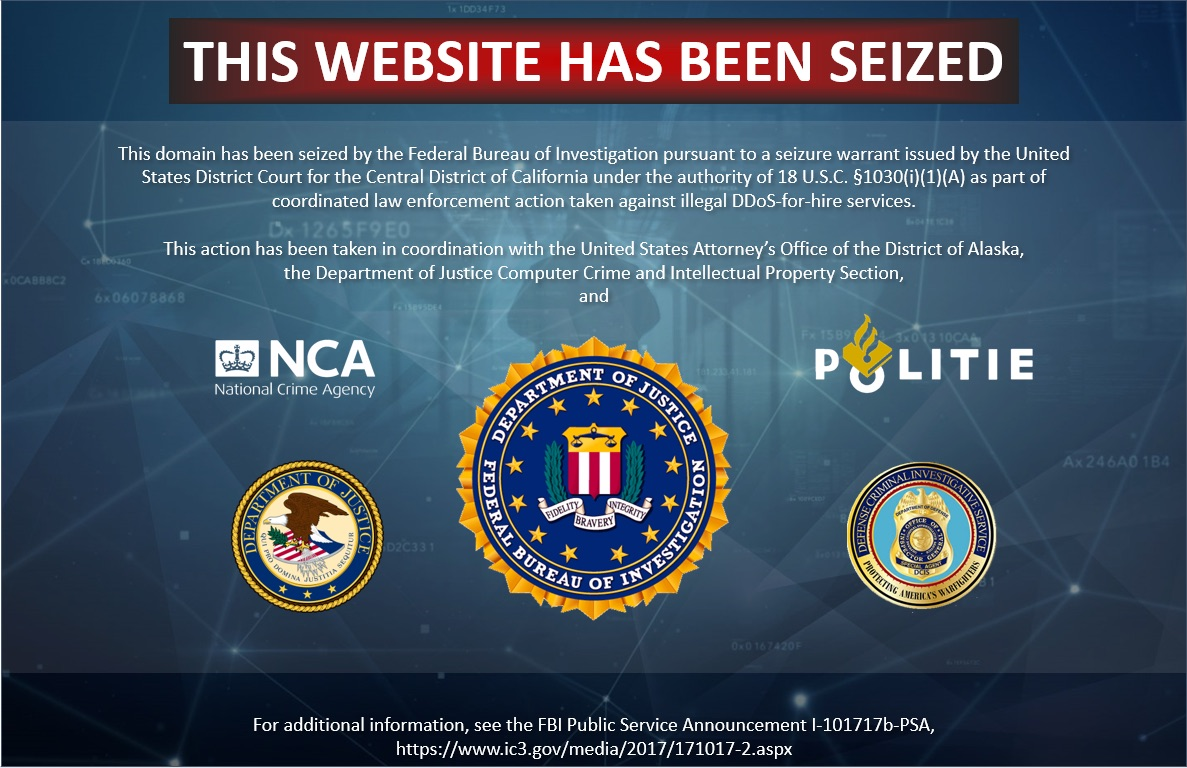
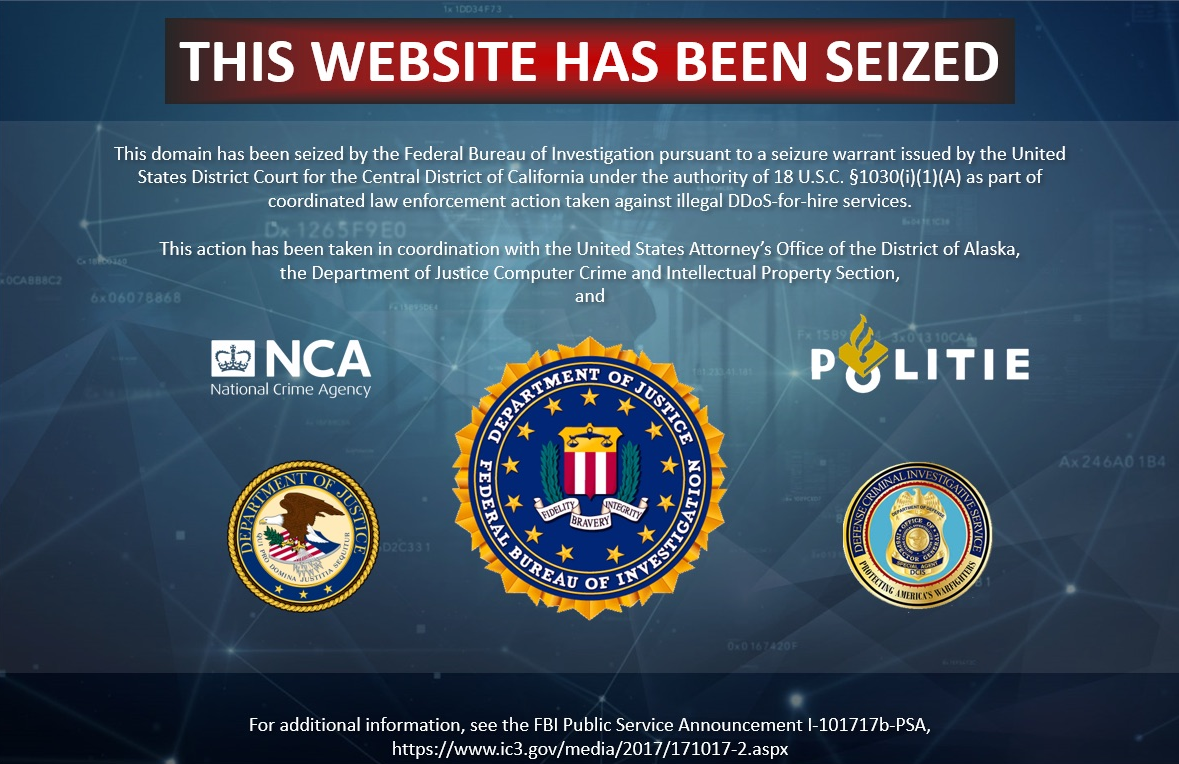
ss

diff --git a/index.html b/index.html
@@ -10,7 +10,7 @@
     <style>
         html, body { margin: 0; padding: 0; }
         </style>
-        <img src="seized.jpg" alt="..." width="100% no-repeat">
+        <img src="seized.png" alt="..." width="100% no-repeat">
 
 </body>
 </html>

diff --git a/style.css b/style.css
@@ -1,3 +1,3 @@
 body {
-  background-color: #0e0e16;
+  background-color: black;
 }
